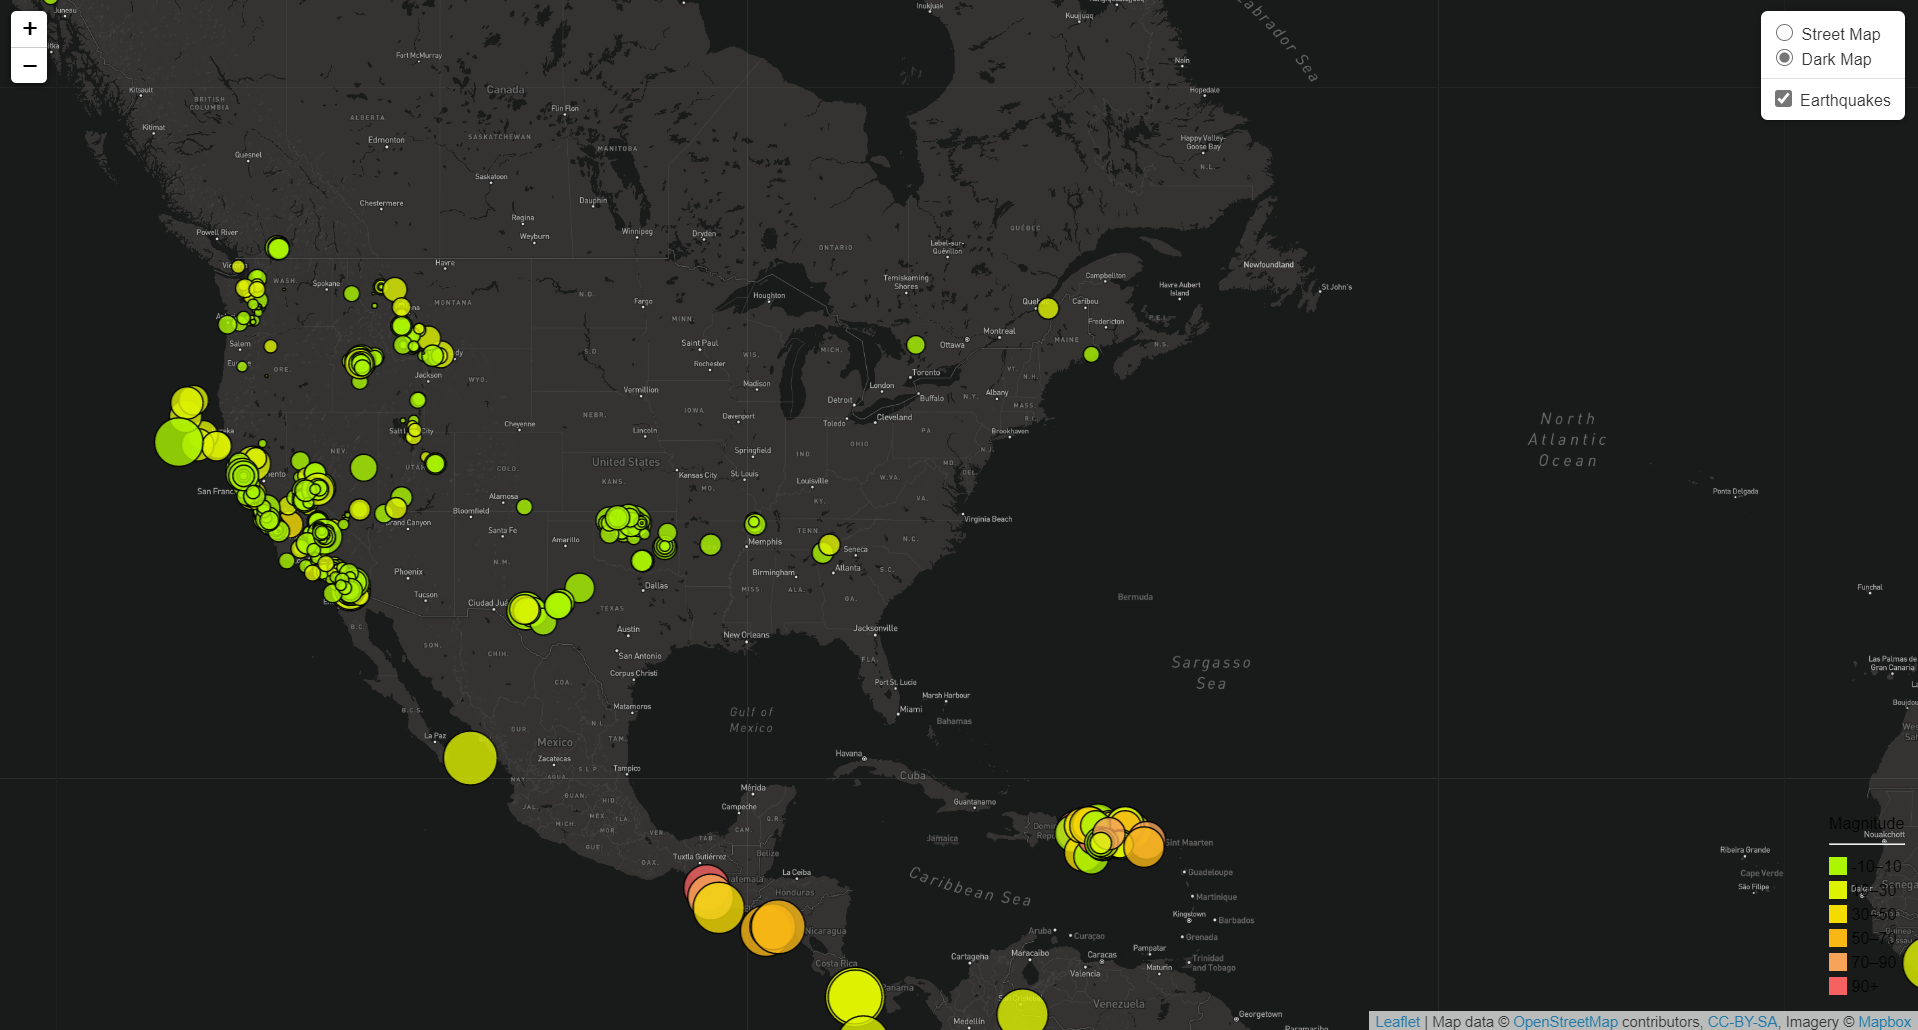
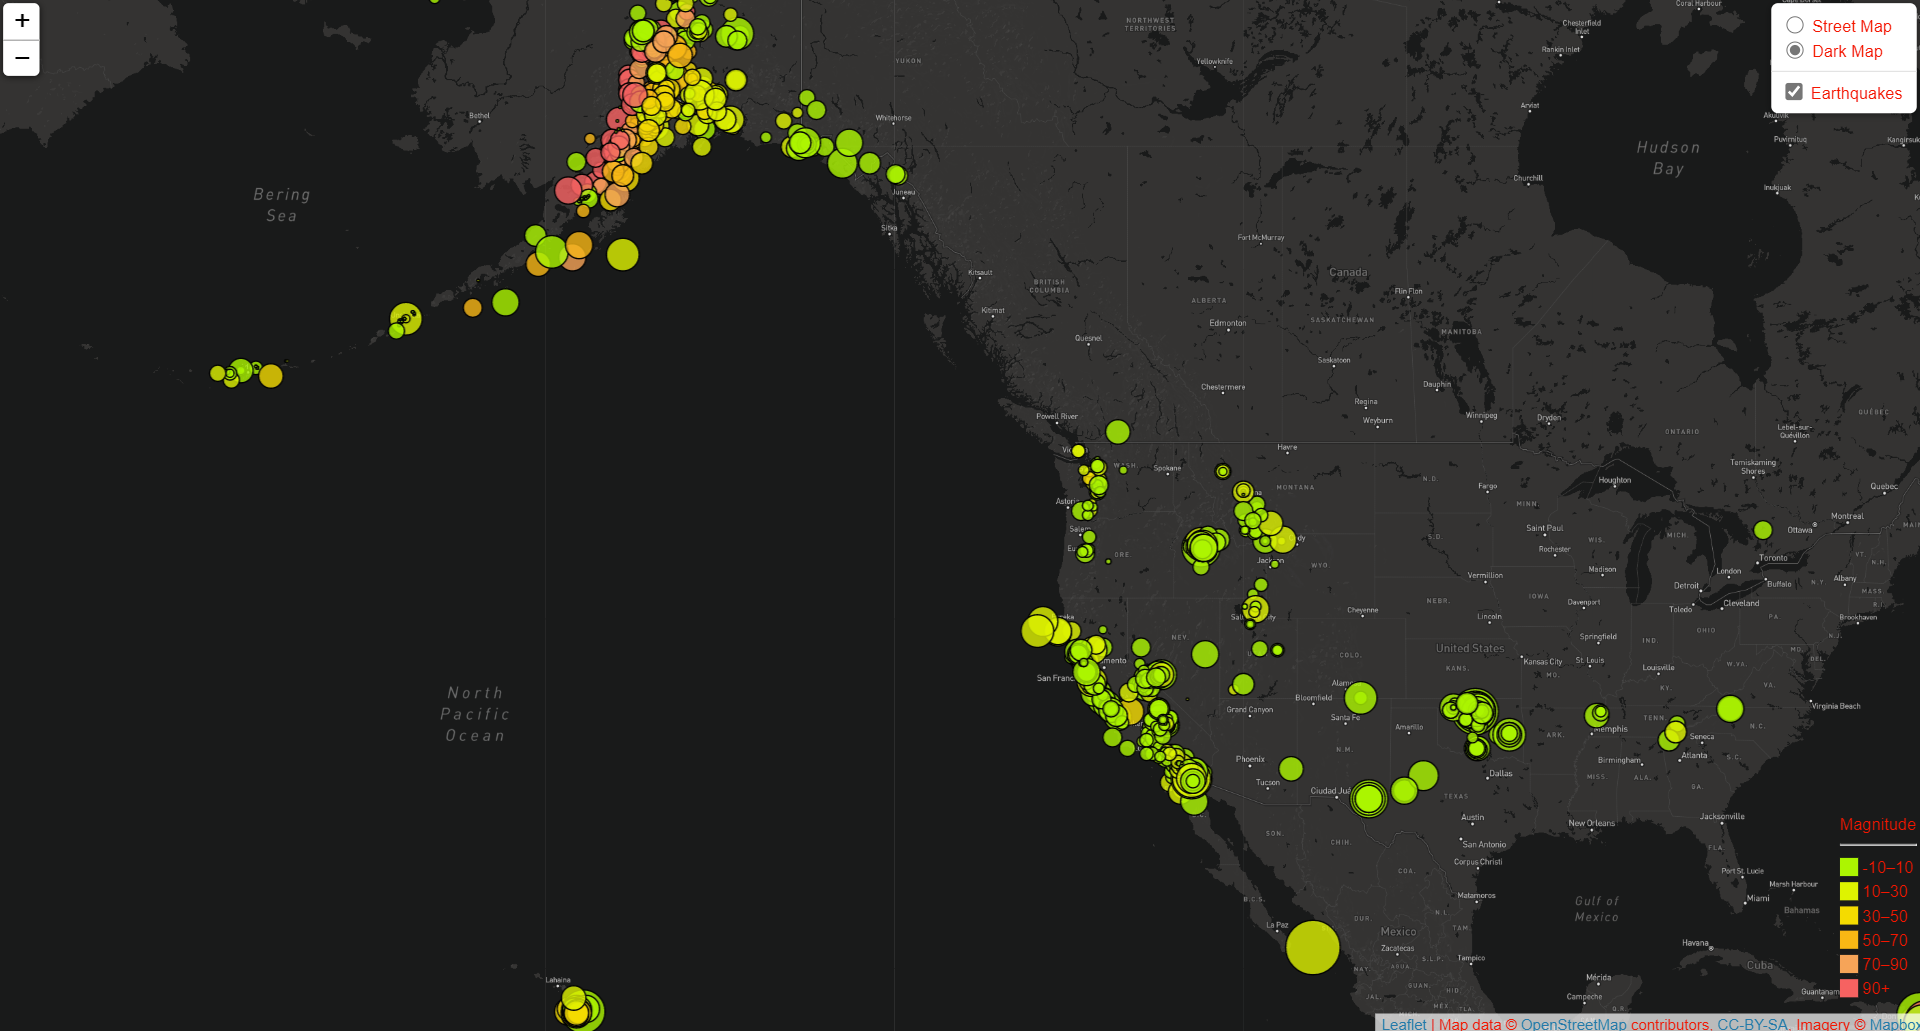
updated the the legend colour

diff --git a/Leaflet Step-1/static/css/style.css b/Leaflet Step-1/static/css/style.css
@@ -8,3 +8,8 @@ body,
 html {
   height: 100%;
 }
+
+
+.leaflet-control{
+color: red;
+}

diff --git a/README.md b/README.md
@@ -25,6 +25,8 @@
 *  Legend is created that will provide context of map data.Depending on the magnitde of the earthquake, colour is determined. Darker the color, greater is the magnitude and vice versa.
 Below is the snip of the streetmap:
 ![streetmap](Images/streetmap.PNG)
+![darkmap](Images/darkmap.PNG)
+
 
 # Setup:
 *	There was no specific setup done to work with leaflet.
